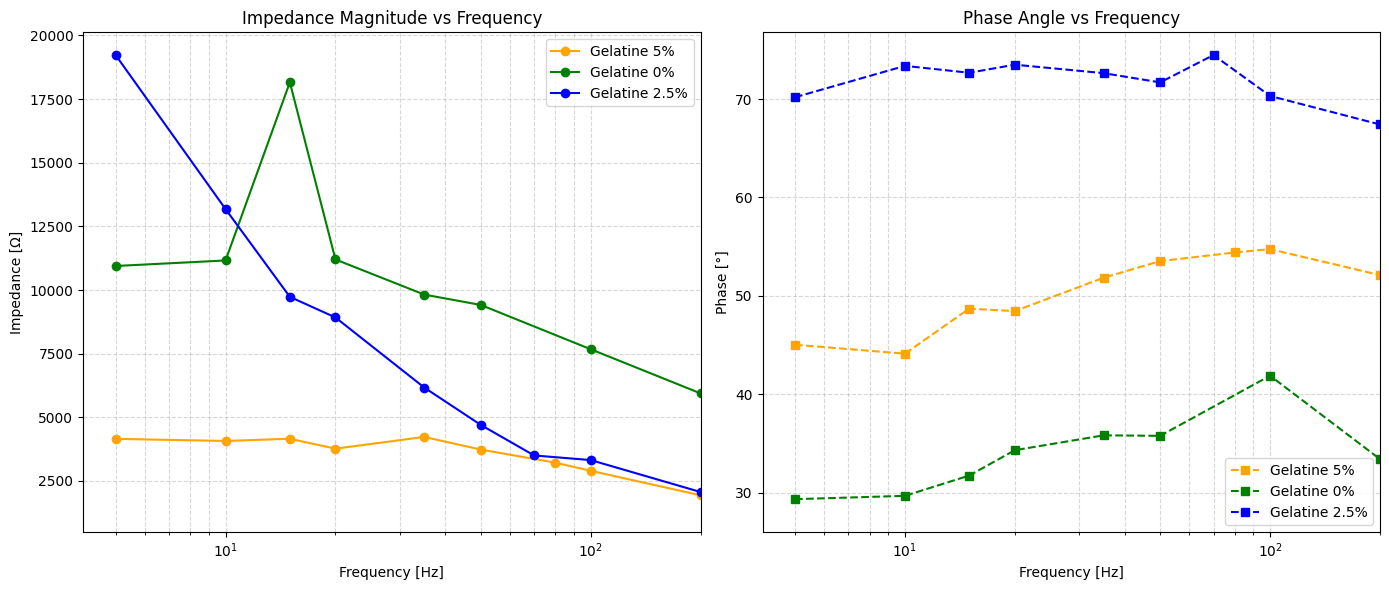
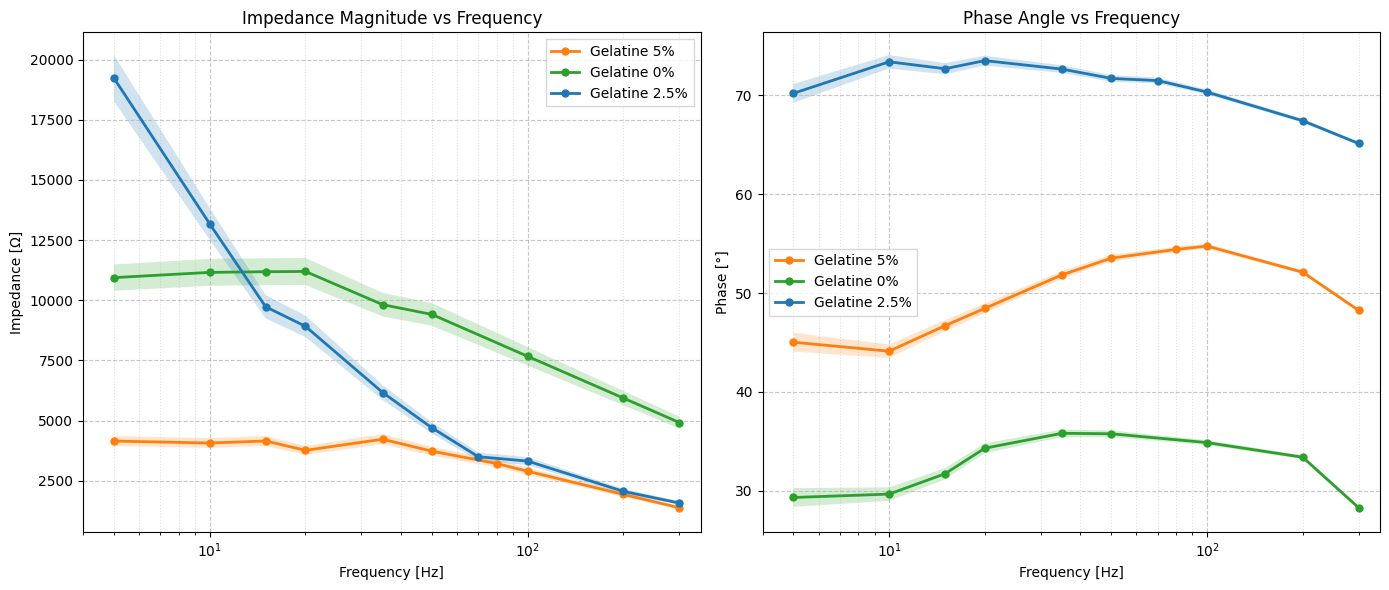
Fixes in subtitles and figures

diff --git a/01_Chapters/results/gelatine.tex b/01_Chapters/results/gelatine.tex
@@ -40,9 +40,7 @@ After subjecting the gelatine prototype with 5\% NaCl concentration to the effec
     \label{fig:superposition}
 \end{figure}
 
-\section{Results}
-
-\subsection{Reproducibility and Batch Consistency}
+\subsubsection{Reproducibility and Batch Consistency}
 
 To evaluate the robustness of the gelatin phantom manufacturing process, two independent batches were synthesized using the standardized recipe and subjected to identical impedance measurement protocols. The electrical response was recorded across a frequency range of 5 Hz to 300 Hz.
 

diff --git a/01_Chapters/state-of-the-art/signal-generation.tex b/01_Chapters/state-of-the-art/signal-generation.tex
@@ -29,7 +29,7 @@ The driver controls the known electrical signals that are injected into physical
 \begin{figure}
 \centering
 \includegraphics[width=0.5\textwidth]{../../02_Images/leahy_dipole.png}
-\caption[Coaxial cable dipole electrode]{Coaxial cable dipole used in~\cite{LEAHY1998159}.}
+\caption[Coaxial cable dipole electrode]{Coaxial cable dipole. Figure taken from~\cite{LEAHY1998159}.}
 \label{fig:dipole_leahy}
 \end{figure}
 